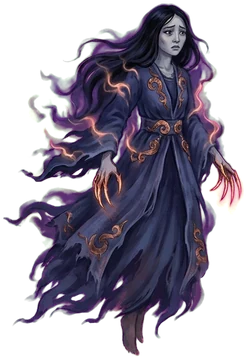
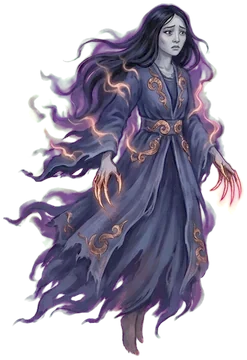
Bigger spirits in fear cards, lighter Zheztyrnaq with a moonlight halo (hand fix, not Kiro)

diff --git a/src/ui/staircase.ts b/src/ui/staircase.ts
@@ -14,7 +14,7 @@ const PUMPKIN = '#FF8A3D';
 const SHADOW = '#0B0919';
 
 /** Height of the spirit pictures and size of the golden emblems, in SVG units. */
-export const SPIRIT_H = 44;
+export const SPIRIT_H = 52;
 export const EMBLEM_SIZE = 24;
 const FONT = 'system-ui, -apple-system, "Segoe UI", Roboto, Arial, sans-serif';
 
@@ -44,7 +44,9 @@ export const NOTE_GAP = 14;
 export const NOTE_MIN_W = 160;
 export const NOTE_FONT = 13;
 export const NOTE_LINES = 3;
-export const GHOST_ROOM = 34;
+export const GHOST_ROOM = 40;
+/** Room for the golden emblem at the left of a card that is not a fear. */
+export const EMBLEM_ROOM = 34;
 export const PLATE_MIN_W = 8;
 export const PLATE_MAX_W = 56;
 
@@ -345,7 +347,7 @@ function stairGroup(
     g.appendChild(
       svgArt(emblemFor(step, nearest), 'emblem', {
         'data-emblem': emblemFor(step, nearest),
-        x: L.noteX + CARD_PAD + (GHOST_ROOM - EMBLEM_SIZE) / 2,
+        x: L.noteX + CARD_PAD + (EMBLEM_ROOM - EMBLEM_SIZE) / 2,
         y: midY - EMBLEM_SIZE / 2,
         width: EMBLEM_SIZE,
         height: EMBLEM_SIZE,
@@ -353,11 +355,11 @@ function stairGroup(
     );
   }
 
-  let left = GHOST_ROOM;
+  let left = EMBLEM_ROOM;
   const badge = badgeLabel(step);
   if (badge !== null) {
     const bw = Math.ceil(badge.length * charWidth(11) * 1.15) + 14;
-    const bx = L.noteX + CARD_PAD + GHOST_ROOM;
+    const bx = L.noteX + CARD_PAD + EMBLEM_ROOM;
     g.appendChild(
       el('rect', {
         class: 'badge',
@@ -381,7 +383,7 @@ function stairGroup(
     });
     bt.textContent = badge;
     g.appendChild(bt);
-    left = GHOST_ROOM + bw + 6;
+    left = EMBLEM_ROOM + bw + 6;
   }
 
   // Fear words are drawn by the ghost, next to the ghost inside the same card.
@@ -426,6 +428,14 @@ function ghostGroup(g: Ghost, index: number, stepIndex: number, L: Layout): SVGG
   // each other; applyGhostState decides which one is shown. The turning picture is a short
   // CSS-only flash between the two.
   const body = el('g', { class: 'ghost-body', transform: `translate(${cx} ${cy})` });
+  // A soft moonlight halo behind the spirit, so the dark Zheztyrnaq stands out on the dark card.
+  // Stacked ellipses instead of a gradient: no ids to clash, and it survives the saved picture.
+  const halo = el('g', { class: 'spirit-halo', fill: MOON });
+  halo.setAttribute('aria-hidden', 'true');
+  for (const k of [1, 0.75, 0.5]) {
+    halo.appendChild(el('ellipse', { cx: 0, cy: 0, rx: (GHOST_ROOM / 2) * k, ry: (SPIRIT_H / 2) * k, opacity: 0.08 }));
+  }
+  body.appendChild(halo);
   const spirit = { x: -GHOST_ROOM / 2, y: -SPIRIT_H / 2, width: GHOST_ROOM, height: SPIRIT_H };
   body.appendChild(svgArt('zheztyrnaq', 'spirit-dark', { ...spirit, opacity: 1 }));
   body.appendChild(svgArt('peri', 'spirit-light', { ...spirit, opacity: 0 }));

diff --git a/tests/ui/staircaseHelpers.ts b/tests/ui/staircaseHelpers.ts
@@ -1,5 +1,5 @@
 import type { Reading } from '../../src/domain/server';
-import { charWidth, NOTE_FONT, CARD_PAD, GHOST_ROOM, CARD_H } from '../../src/ui/staircase';
+import { charWidth, NOTE_FONT, CARD_PAD, GHOST_ROOM, EMBLEM_ROOM, CARD_H } from '../../src/ui/staircase';
 
 export function lum(hex: string): number {
   const ch = [1, 3, 5].map((i) => {
@@ -99,12 +99,12 @@ export function partsOf(svg: SVGSVGElement): Parts[] {
 }
 
 /** The text fits its card: inside the card on every side, and not on the ghost's room. */
-export function textFitsCard(label: Element, note: Element, _zone: string): boolean {
+export function textFitsCard(label: Element, note: Element, zone: string): boolean {
   const box = textBox(label);
   const card = rectBox(note);
   const size = attr(label, 'font-size');
   if (size < NOTE_FONT) return false;
-  const minLeft = card.left + CARD_PAD + GHOST_ROOM; // emblem or ghost room first
+  const minLeft = card.left + CARD_PAD + (zone === 'fear' ? GHOST_ROOM : EMBLEM_ROOM); // ghost or emblem room first
   return (
     box.left >= minLeft &&
     box.right <= card.right - CARD_PAD + 0.001 &&
